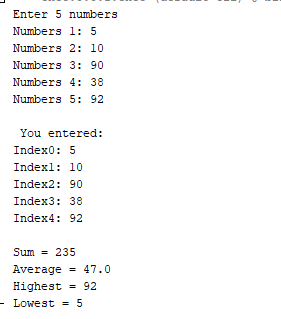
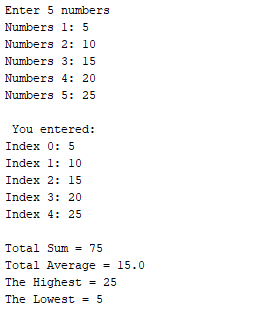
code day11

diff --git a/src/main/java/day11/activity/Activity7_Albios.java b/src/main/java/day11/activity/Activity7_Albios.java
@@ -27,7 +27,7 @@ public class Activity7_Albios {
 
         System.out.println("\n You entered: ");
         for (int i = 0; i < num.length; i++) {
-            System.out.println("Index" + i + ": " + num[i]);
+            System.out.println("Index " + i + ": " + num[i]);
         }
 
         double ave = (double) sum / num.length;
@@ -41,9 +41,9 @@ public class Activity7_Albios {
         }
 
         System.out.println();
-        System.out.println("Sum = " + sum);
-        System.out.println("Average = " + ave);
-        System.out.println("Highest = " + highest);
-        System.out.println("Lowest = " + lowest);
+        System.out.println("Total Sum = " + sum);
+        System.out.println("Total Average = " + ave);
+        System.out.println("The Highest = " + highest);
+        System.out.println("The Lowest = " + lowest);
     }
 }